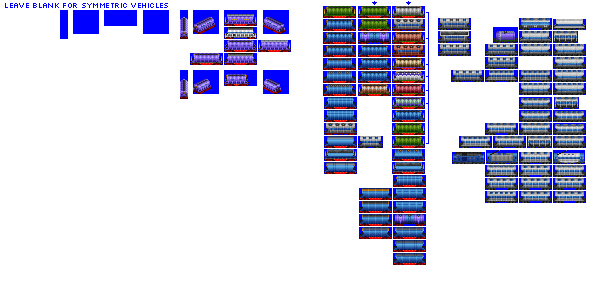
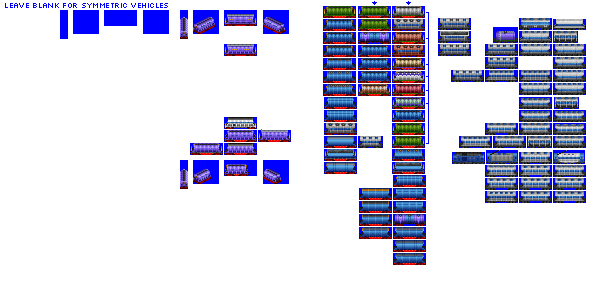
Change: WIP on swing roof hoppers

Changed region(s): [[0.3, 0.03, 0.51, 0.33], [0.3, 0.39, 0.51, 0.63]]

diff --git a/src/vehicles/swing_roof_hopper_cars.py b/src/vehicles/swing_roof_hopper_cars.py
@@ -12,7 +12,7 @@ def main():
         sprites_complete=False,
     )
 
-    consist.add_unit(type=FreightCar, chassis="2_axle_gapped_greebled_24px")
+    consist.add_unit(type=FreightCar, chassis="2_axle_1cc_filled_hoppers_24px")
 
     consist = CoveredHopperCarSwingRoofConsist(
         roster_id="pony",
@@ -22,7 +22,7 @@ def main():
         sprites_complete=False,
     )
 
-    consist.add_unit(type=FreightCar, chassis="4_axle_gapped_greebled_32px")
+    consist.add_unit(type=FreightCar, chassis="4_axle_1cc_filled_hoppers_32px")
 
     consist = CoveredHopperCarSwingRoofConsist(
         roster_id="pony",
